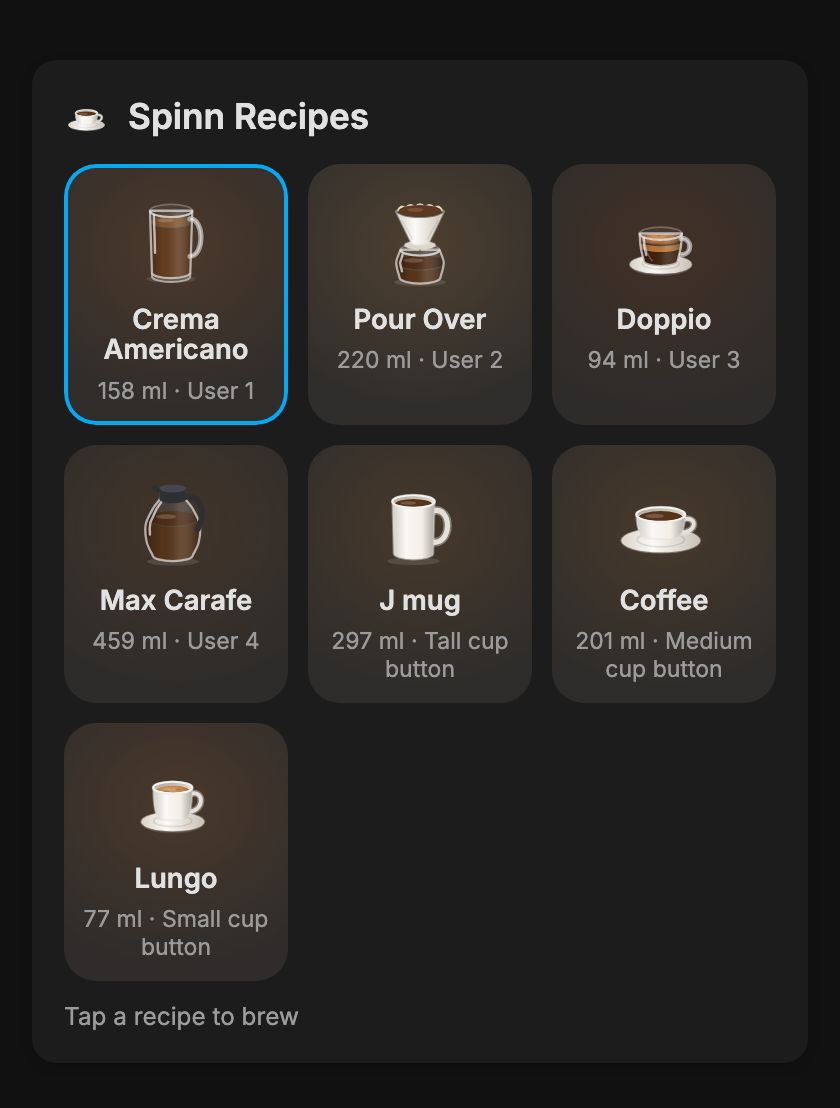
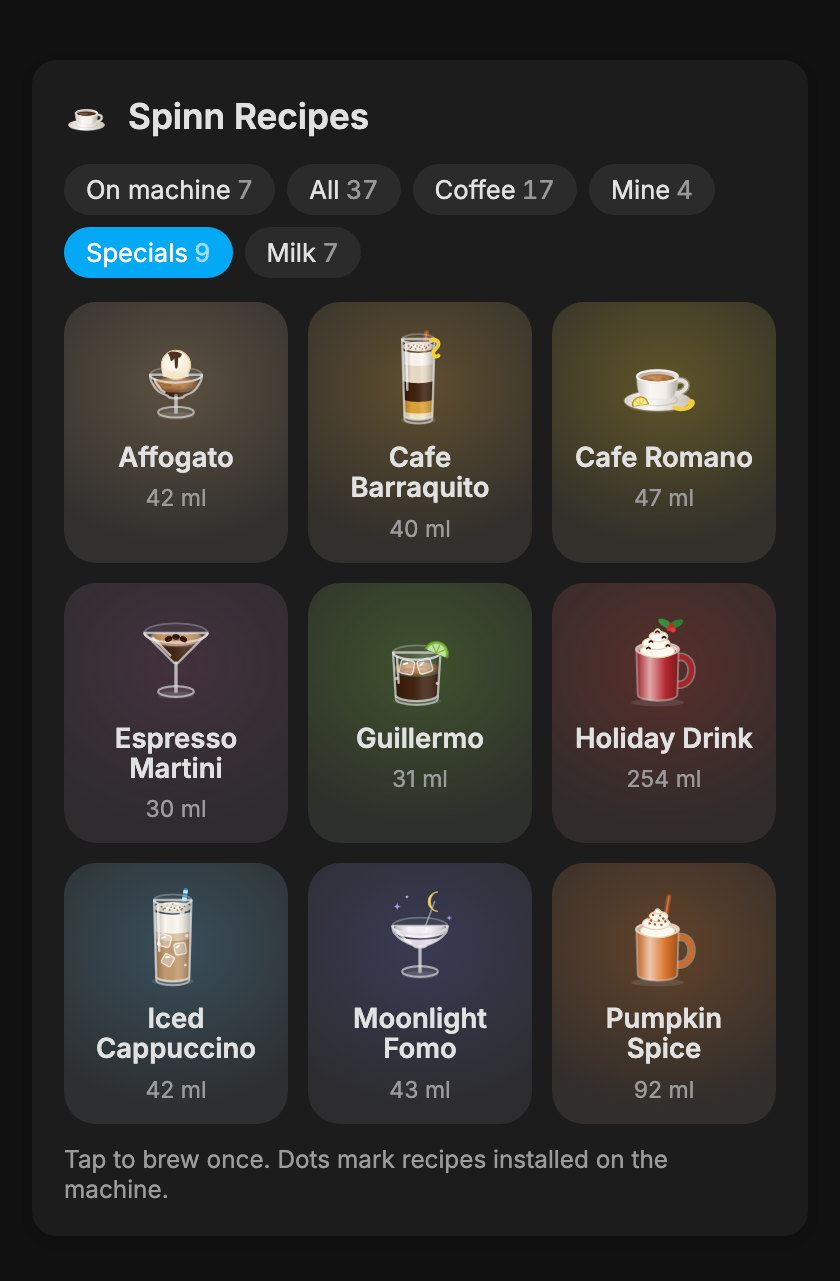
Recipes card: tabs for every recipe, not just the installed slots
The card only showed the seven installed cookbook slots because its tiles
brew by slot. It now has On machine / All / Coffee / Mine / Specials / Milk
tabs (counts shown, empty types hidden). Installed recipes still brew by
slot; anything else brews once via spinn.brew_recipe and the temporary slot,
leaving the cookbook alone. Milk drinks pour their ristretto with a reminder
to add the milk. A dot marks installed recipes; long tabs scroll inside the
card.

Options: `tab:` picks the starting tab, `tabs: false` restores the single
grid, and an explicit `recipes:` list still overrides everything.

Card version 0.3.2 so browsers fetch the new file.

Claude-Session: https://claude.ai/code/session_01MSNkx7L7D8YAWSvvYsXmtN

Changed region(s): [[0.0619, 0.0614, 0.9286, 0.8592], [0.0619, 0.8899, 0.8048, 0.9513]]

diff --git a/custom_components/spinn/frontend/spinn-card.js b/custom_components/spinn/frontend/spinn-card.js
@@ -6,7 +6,7 @@
  */
 "use strict";
 
-const CARD_VERSION = "0.3.1";
+const CARD_VERSION = "0.3.2";
 
 /* -------------------------------------------------------------- shared maps */
 
@@ -850,6 +850,11 @@ class SpinnBase extends HTMLElement {
     if (!this._built) this._build();
     this._update();
   }
+  // device_id for spinn.* service calls (needed only with several machines).
+  _device() {
+    const ent = this._hass.entities && this._ent && this._hass.entities[this._ent.catalog];
+    return ent && ent.device_id ? { device_id: ent.device_id } : {};
+  }
   async _press(entityId) {
     if (!entityId) return;
     await this._hass.callService("button", "press", { entity_id: entityId });
@@ -1236,20 +1241,36 @@ const DEFAULT_RECIPES = [
   { slot: 6, name: "Small cup", icon: "espresso", role: "small" },
 ];
 
+// Tabs: what's installed on the machine, then the whole catalog by type.
+const RECIPE_TABS = [["machine", "On machine"], ["all", "All"], ["coffee", "Coffee"], ["custom", "Mine"], ["special", "Specials"], ["milk", "Milk"]];
+
 class SpinnRecipeCard extends SpinnBase {
   static getStubConfig(hass) {
     // No recipes in the stub: the card reads the machine's installed cookbook.
     return { type: "custom:spinn-recipe-card", prefix: detectPrefix(hass) || "spinn" };
   }
-  getCardSize() { return 5; }
+  getCardSize() { return 6; }
+
+  setConfig(config) {
+    super.setConfig(config);
+    this._tab = (config && config.tab) || "machine";
+  }
 
   _build() {
     const css = `
       ${BASE_CSS}
       .title { font-size:1.1rem; font-weight:600; margin-bottom:12px; display:flex; align-items:center; gap:8px; }
       .title .rx-icon { width:24px; height:24px; color: var(--primary-text-color); }
+      .tabs { display:flex; gap:6px; flex-wrap:wrap; margin-bottom:12px; }
+      .tabs:empty { display:none; }
+      .chip { font:inherit; font-size:.8rem; cursor:pointer; border:none; border-radius:999px; padding:5px 11px;
+        background: var(--spinn-chip-bg); color: var(--primary-text-color); }
+      .chip[aria-pressed="true"] { background: var(--primary-color); color: var(--text-primary-color, #fff); }
+      .chip .n { opacity:.6; margin-left:3px; font-variant-numeric: tabular-nums; }
+      .chip:focus-visible, .tile:focus-visible { outline:2px solid var(--primary-color); outline-offset:2px; }
       .grid { display:grid; grid-template-columns: repeat(auto-fill, minmax(96px,1fr)); gap:10px; }
-      .tile { border:none; cursor:pointer; border-radius:16px; padding:12px 8px 10px;
+      .grid.scroll { max-height: 452px; overflow-y:auto; padding:2px; margin:-2px; scrollbar-width: thin; }
+      .tile { border:none; cursor:pointer; border-radius:16px; padding:12px 8px 10px; position:relative;
         display:flex; flex-direction:column; align-items:center; gap:6px; font:inherit;
         background: var(--spinn-chip-bg); color: var(--primary-text-color);
         transition: transform .07s ease, background .15s ease, box-shadow .15s ease; }
@@ -1259,63 +1280,144 @@ class SpinnRecipeCard extends SpinnBase {
       .tile.active { box-shadow: inset 0 0 0 2px var(--primary-color); }
       .tile .rx-icon { width:52px; height:52px; color: var(--primary-text-color); }
       .tile .rn { font-size:.86rem; font-weight:600; text-align:center; line-height:1.1; }
-      .tile .rv { font-size:.72rem; color: var(--secondary-text-color); }
-      .hint { margin-top:10px; font-size:.76rem; color: var(--secondary-text-color); }
+      .tile .rv { font-size:.72rem; color: var(--secondary-text-color); text-align:center; }
+      .tile .pin { position:absolute; top:8px; right:9px; width:7px; height:7px; border-radius:50%; background: var(--primary-color); }
+      .empty { font-size:.85rem; color: var(--secondary-text-color); padding:8px 2px; }
+      .hint { margin-top:10px; font-size:.76rem; color: var(--secondary-text-color); min-height:1.1em; }
+      .hint.err { color: ${TONE_COLOR.error}; }
     `;
     this.shadowRoot.innerHTML = `
       <style>${css}</style>
       <ha-card>
         <div class="title">${recipeIconSvg("coffee", "rx-icon")} <span class="t-text">Spinn Recipes</span></div>
+        <div class="tabs" role="group" aria-label="Recipes to show"></div>
         <div class="grid"></div>
-        <div class="hint"></div>
+        <div class="hint" role="status"></div>
       </ha-card>`;
     this.shadowRoot.addEventListener("click", (e) => this._onClick(e));
     this._built = true;
   }
 
+  // The full catalog (from the Recipe catalog sensor), with each recipe's installed slot.
+  _catalog() {
+    const st = this._ent.catalog && this._hass.states[this._ent.catalog];
+    const list = st && Array.isArray(st.attributes.recipes) ? st.attributes.recipes : [];
+    const cookbook = st && Array.isArray(st.attributes.cookbook) ? st.attributes.cookbook : [];
+    const slotOf = {};
+    for (const c of cookbook) if (c.role !== "temp" && slotOf[c.recipe_id] == null) slotOf[c.recipe_id] = c;
+    return { list, slotOf };
+  }
+
   _onClick(ev) {
-    const t = ev.composedPath().find((n) => n.dataset && n.dataset.action === "recipe");
+    const t = ev.composedPath().find((n) => n.dataset && n.dataset.action);
     if (!t || t.disabled) return;
-    this._brewSlot(Number(t.dataset.slot), t.dataset.name);
+    if (t.dataset.action === "tab") {
+      this._tab = t.dataset.tab;
+      this._flash = null;
+      return this._update();
+    }
+    if (t.dataset.action !== "recipe") return;
+    if (t.dataset.slot !== undefined && t.dataset.slot !== "") return this._brewSlot(Number(t.dataset.slot), t.dataset.name);
+    return this._brewRecipe(t.dataset.id, t.dataset.name, t.dataset.kind);
+  }
+
+  // A recipe that isn't installed: brew it once via the machine's temporary slot.
+  async _brewRecipe(id, name, kind) {
+    if (this._config.confirm && !window.confirm(`Brew ${name} now?`)) return;
+    this._say(kind === "milk" ? `Pouring a ristretto for your ${name}. Add the milk when it's done.` : `Brewing ${name}…`);
+    try {
+      await this._hass.callService("spinn", "brew_recipe", { recipe_id: id, ...this._device() });
+    } catch (err) {
+      this._say((err && err.message) || `Couldn't brew ${name}.`, true);
+    }
+  }
+
+  _say(text, err = false) {
+    this._flash = { text, err, until: Date.now() + 8000 };
+    const h = this.shadowRoot.querySelector(".hint");
+    h.textContent = text;
+    h.classList.toggle("err", err);
   }
 
   _update() {
     const hass = this._hass, cfg = this._config;
     const e = (this._ent = resolveEntities(hass, cfg));
     const root = this.shadowRoot;
+    root.querySelector(".t-text").textContent = cfg.title || "Spinn Recipes";
+
     // Source order: explicit YAML list > the machine's installed cookbook > generic demo set.
     const machine = machineRecipes(hass, e.recipe_select);
-    const recipes = Array.isArray(cfg.recipes) && cfg.recipes.length
-      ? normalizeRecipes(cfg.recipes, machine)
-      : machine.length ? machine : DEFAULT_RECIPES;
+    const explicit = Array.isArray(cfg.recipes) && cfg.recipes.length;
+    const cat = this._catalog();
+    const showTabs = !explicit && cfg.tabs !== false && cat.list.length > 0;
+    if (!showTabs) this._tab = "machine";
 
-    root.querySelector(".t-text").textContent = cfg.title || "Spinn Recipes";
+    const counts = { machine: (explicit ? cfg.recipes : machine.length ? machine : DEFAULT_RECIPES).length, all: cat.list.length };
+    for (const r of cat.list) counts[r.kind] = (counts[r.kind] || 0) + 1;
+    if (this._tab !== "machine" && !counts[this._tab]) this._tab = "machine";
+
+    // Tiles: {key, slot?, id?, kind?, name, icon, sub, installed}
+    let tiles;
+    if (this._tab === "machine") {
+      const recipes = explicit ? normalizeRecipes(cfg.recipes, machine) : machine.length ? machine : DEFAULT_RECIPES;
+      tiles = recipes.map((r) => ({
+        key: `s${r.slot}`, slot: r.slot, name: r.name || `Slot ${r.slot}`, icon: iconFor(r),
+        sub: [r.volume ? `${r.volume} ml` : null, ROLE_LABEL[r.role] || (r.volume ? null : `slot ${r.slot}`)].filter(Boolean).join(" · "),
+        title: `Slot ${r.slot}${r.custom ? " · your recipe" : ""}`,
+      }));
+    } else {
+      tiles = cat.list.filter((r) => this._tab === "all" || r.kind === this._tab).map((r) => {
+        const inst = cat.slotOf[r.id];
+        const size = (r.values || {}).size;
+        const sub = inst ? (ROLE_LABEL[inst.role] || `Slot ${inst.slot}`)
+          : r.kind === "milk" ? "Ristretto + milk" : size ? `${Math.round(size)} ml` : KIND_LABEL[r.kind] || "";
+        return { key: r.id, id: r.id, kind: r.kind, slot: inst ? inst.slot : undefined, name: r.name, icon: iconFor(r), sub,
+          installed: !!inst, title: inst ? `Installed: ${ROLE_LABEL[inst.role] || "slot " + inst.slot}` : "Brews once, without changing your cookbook" };
+      });
+    }
+
+    const tabsEl = root.querySelector(".tabs");
+    const tabSig = showTabs ? JSON.stringify([this._tab, counts]) : "";
+    if (tabsEl.dataset.sig !== tabSig) {
+      tabsEl.dataset.sig = tabSig;
+      tabsEl.innerHTML = showTabs ? RECIPE_TABS.filter(([k]) => k === "machine" || k === "all" || counts[k])
+        .map(([k, label]) => `<button class="chip" data-action="tab" data-tab="${k}" aria-pressed="${this._tab === k}">${label}<span class="n">${counts[k] || 0}</span></button>`).join("") : "";
+    }
+
+    const grid = root.querySelector(".grid");
+    const sig = JSON.stringify([this._tab, tiles]);
+    if (grid.dataset.sig !== sig) {
+      grid.dataset.sig = sig;
+      grid.classList.toggle("scroll", this._tab !== "machine");
+      grid.scrollTop = 0;
+      grid.innerHTML = tiles.length ? tiles.map((t) => `
+        <button class="tile" style="--rx-tint:${drinkTint(t.icon)}" data-action="recipe" data-slot="${t.slot ?? ""}" data-id="${esc(t.id || "")}"
+                data-kind="${esc(t.kind || "")}" data-name="${esc(t.name)}" title="${esc(t.title)}">
+          ${t.installed ? `<span class="pin" aria-hidden="true"></span>` : ""}
+          ${recipeIconSvg(t.icon)}
+          <span class="rn">${esc(t.name)}</span>
+          <span class="rv">${esc(t.sub)}</span>
+        </button>`).join("") : `<div class="empty">No recipes of this type.</div>`;
+    }
 
     const status = (stateStr(hass, e.status) || "").toUpperCase();
     const offline = !!e.connected && stateStr(hass, e.connected) === "off";
     const busy = isOn(hass, e.brewing) || isOn(hass, e.cleaning) || !!(STATUS[status] && STATUS[status].busy);
     const current = num(hass, e.recipe_select) ?? num(hass, e.recipe_number);
-
-    const grid = root.querySelector(".grid");
-    const sig = JSON.stringify(recipes);
-    if (grid.dataset.sig !== sig) {
-      grid.dataset.sig = sig;
-      grid.innerHTML = recipes.map((r) => `
-        <button class="tile" style="--rx-tint:${drinkTint(iconFor(r))}" data-action="recipe" data-slot="${esc(r.slot)}" data-name="${esc(r.name || "Slot " + r.slot)}" title="Slot ${esc(r.slot)}${r.custom ? " · your recipe" : ""}">
-          ${recipeIconSvg(iconFor(r))}
-          <span class="rn">${esc(r.name || "Slot " + r.slot)}</span>
-          <span class="rv">${esc([r.volume ? `${r.volume} ml` : null, ROLE_LABEL[r.role] || (r.volume ? null : `slot ${r.slot}`)].filter(Boolean).join(" · "))}</span>
-        </button>`).join("");
-    }
     grid.querySelectorAll(".tile").forEach((b) => {
-      b.disabled = offline || busy || !e.brew_button;
-      b.classList.toggle("active", Number(b.dataset.slot) === current);
+      const bySlot = b.dataset.slot !== "";
+      b.disabled = offline || busy || (bySlot ? !e.brew_button : !e.catalog);
+      b.classList.toggle("active", bySlot && Number(b.dataset.slot) === current);
     });
 
-    root.querySelector(".hint").textContent = offline
-      ? "Machine offline"
+    const hint = root.querySelector(".hint");
+    if (this._flash && this._flash.until > Date.now() && !offline) return;
+    this._flash = null;
+    hint.classList.remove("err");
+    hint.textContent = offline ? "Machine offline"
       : busy ? (isOn(hass, e.cleaning) ? "Cleaning…" : "Brewing…")
-        : !e.recipe_select ? "No recipe selector found" : "Tap a recipe to brew";
+        : this._tab === "machine" ? (!e.recipe_select ? "No recipe selector found" : "Tap a recipe to brew")
+          : "Tap to brew once. Dots mark recipes installed on the machine.";
   }
 }
 
@@ -1682,11 +1784,6 @@ class SpinnRecipeEditorCard extends SpinnBase {
     return out;
   }
 
-  _device() {
-    const ent = this._hass.entities && this._hass.entities[this._ent.catalog];
-    return ent && ent.device_id ? { device_id: ent.device_id } : {};
-  }
-
   async _call(service, data, okText) {
     this._working = true;
     this._syncEnabled();
@@ -1763,7 +1860,7 @@ window.customCards.push(
   {
     type: "spinn-recipe-card",
     name: "Spinn Recipes",
-    description: "A recipe browser that brews a cookbook slot on tap.",
+    description: "Tap to brew: what's on the machine, plus every Spinn recipe by type.",
     preview: true,
     documentationURL: "https://github.com/spiegela/dizzycoffee",
   },

diff --git a/custom_components/spinn/const.py b/custom_components/spinn/const.py
@@ -57,6 +57,6 @@ DEFAULT_DEEP_CLEAN_EVERY = 100
 DEFAULT_DESCALE_EVERY = 500
 
 # Lovelace dashboard cards (served by the integration; see frontend/).
-CARD_VERSION = "0.3.1"
+CARD_VERSION = "0.3.2"
 FRONTEND_URL_BASE = f"/{DOMAIN}_cards"
 FRONTEND_SCRIPT = "spinn-card.js"

diff --git a/README.md b/README.md
@@ -317,18 +317,24 @@ favorites: [0, 1, 2, 3]    # slots to show as chips (names/icons come from the c
 
 <table>
   <tr>
-    <td><img src="https://raw.githubusercontent.com/spiegela/dizzycoffee/main/docs/images/recipes-light.png" width="300" alt="Recipes card, light"></td>
-    <td><img src="https://raw.githubusercontent.com/spiegela/dizzycoffee/main/docs/images/recipes-dark.png" width="300" alt="Recipes card, dark"></td>
+    <td><img src="https://raw.githubusercontent.com/spiegela/dizzycoffee/main/docs/images/recipes-light.png" width="300" alt="Recipes card, On machine tab"></td>
+    <td><img src="https://raw.githubusercontent.com/spiegela/dizzycoffee/main/docs/images/recipes-dark.png" width="300" alt="Recipes card, Specials tab, dark theme"></td>
   </tr>
 </table>
 
-A grid of what's installed on the machine; tap a tile to brew it. With no options it shows the
-seven slots from your cookbook, with names, sizes and which button each sits on.
+Tap a tile to brew it. The **On machine** tab (the default) shows what's installed in the
+seven cookbook slots, with names, sizes and which button each sits on, and brews by slot. The
+**All / Coffee / Mine / Specials / Milk** tabs show every Spinn recipe; tapping one that isn't
+installed brews it once through the temporary slot (`spinn.brew_recipe`), so your cookbook isn't
+changed. Milk drinks pour their ristretto base and remind you to add the milk. A dot marks
+recipes that are installed.
 
 ```yaml
 type: custom:spinn-recipe-card
 # title: Spinn Recipes     # default
-# recipes: [4, 5, 6]                                       # just these slots
+# tab: special             # start on: machine (default) | all | coffee | custom | special | milk
+# tabs: false              # only the installed slots, no tabs
+# recipes: [4, 5, 6]                                       # just these slots (hides the tabs)
 # recipes:
 #   - { slot: 0, name: Crema Americano, icon: americano }  # or override names/icons
 # confirm: true
